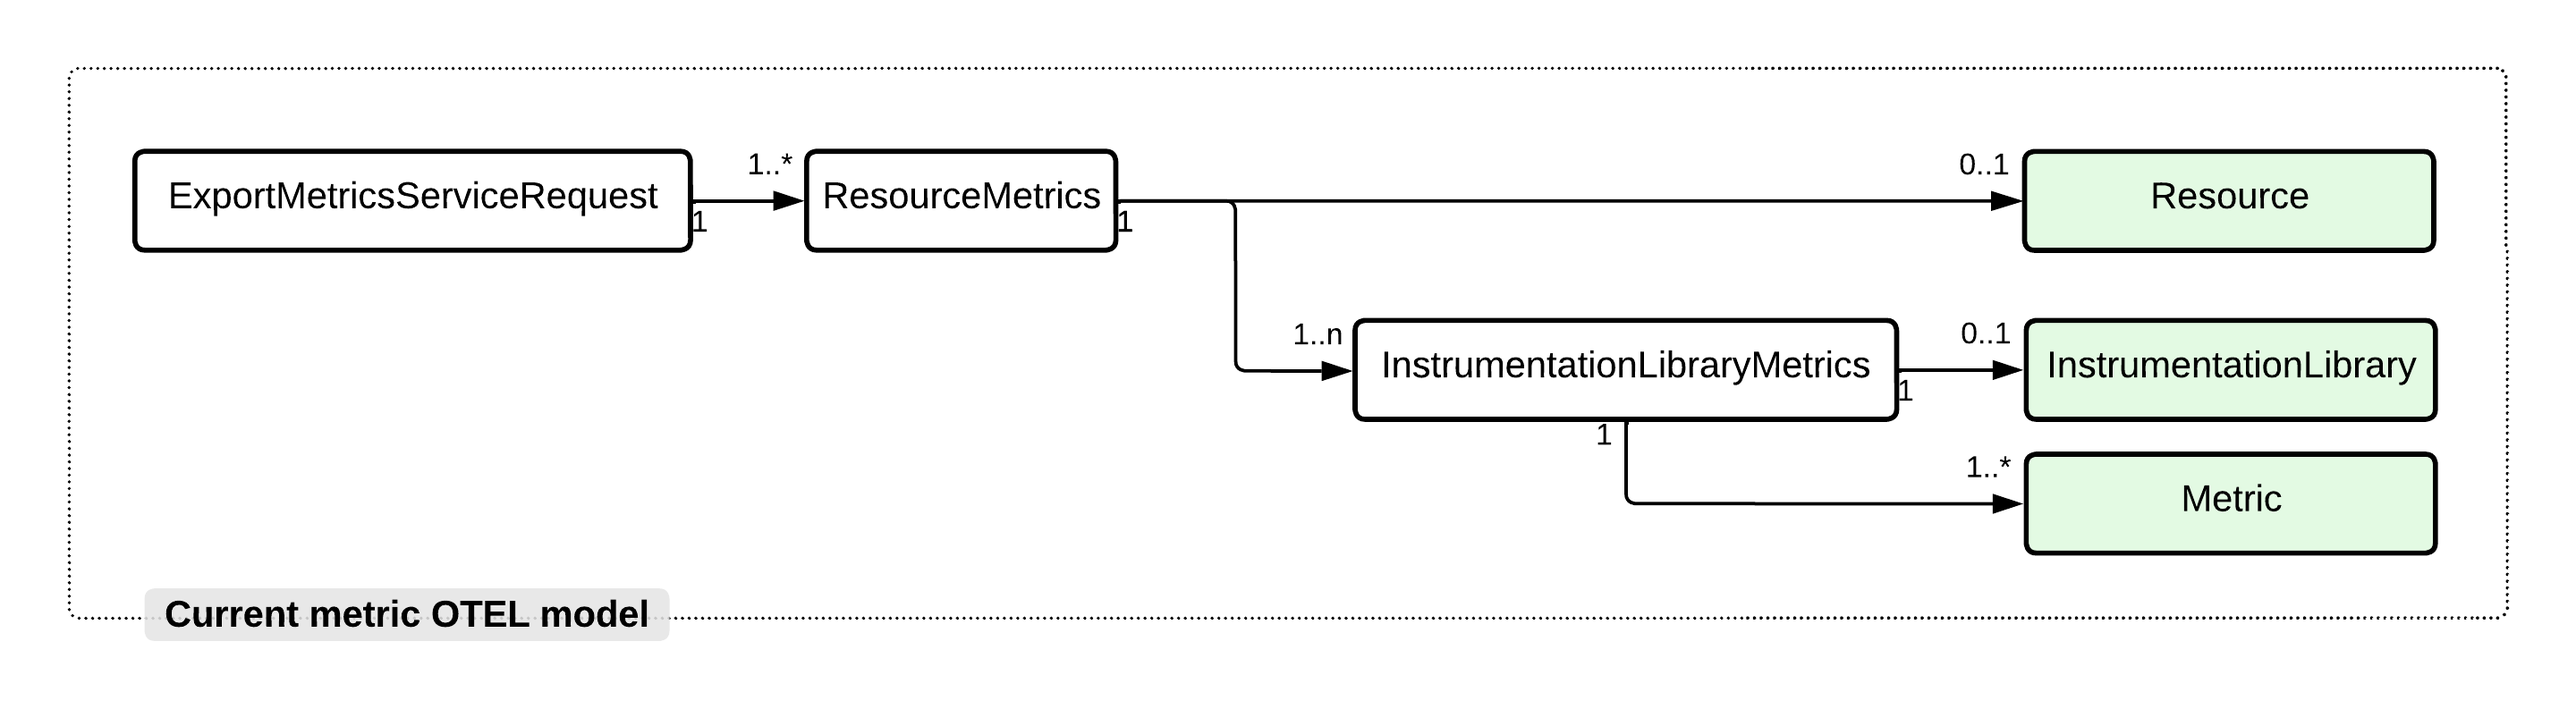
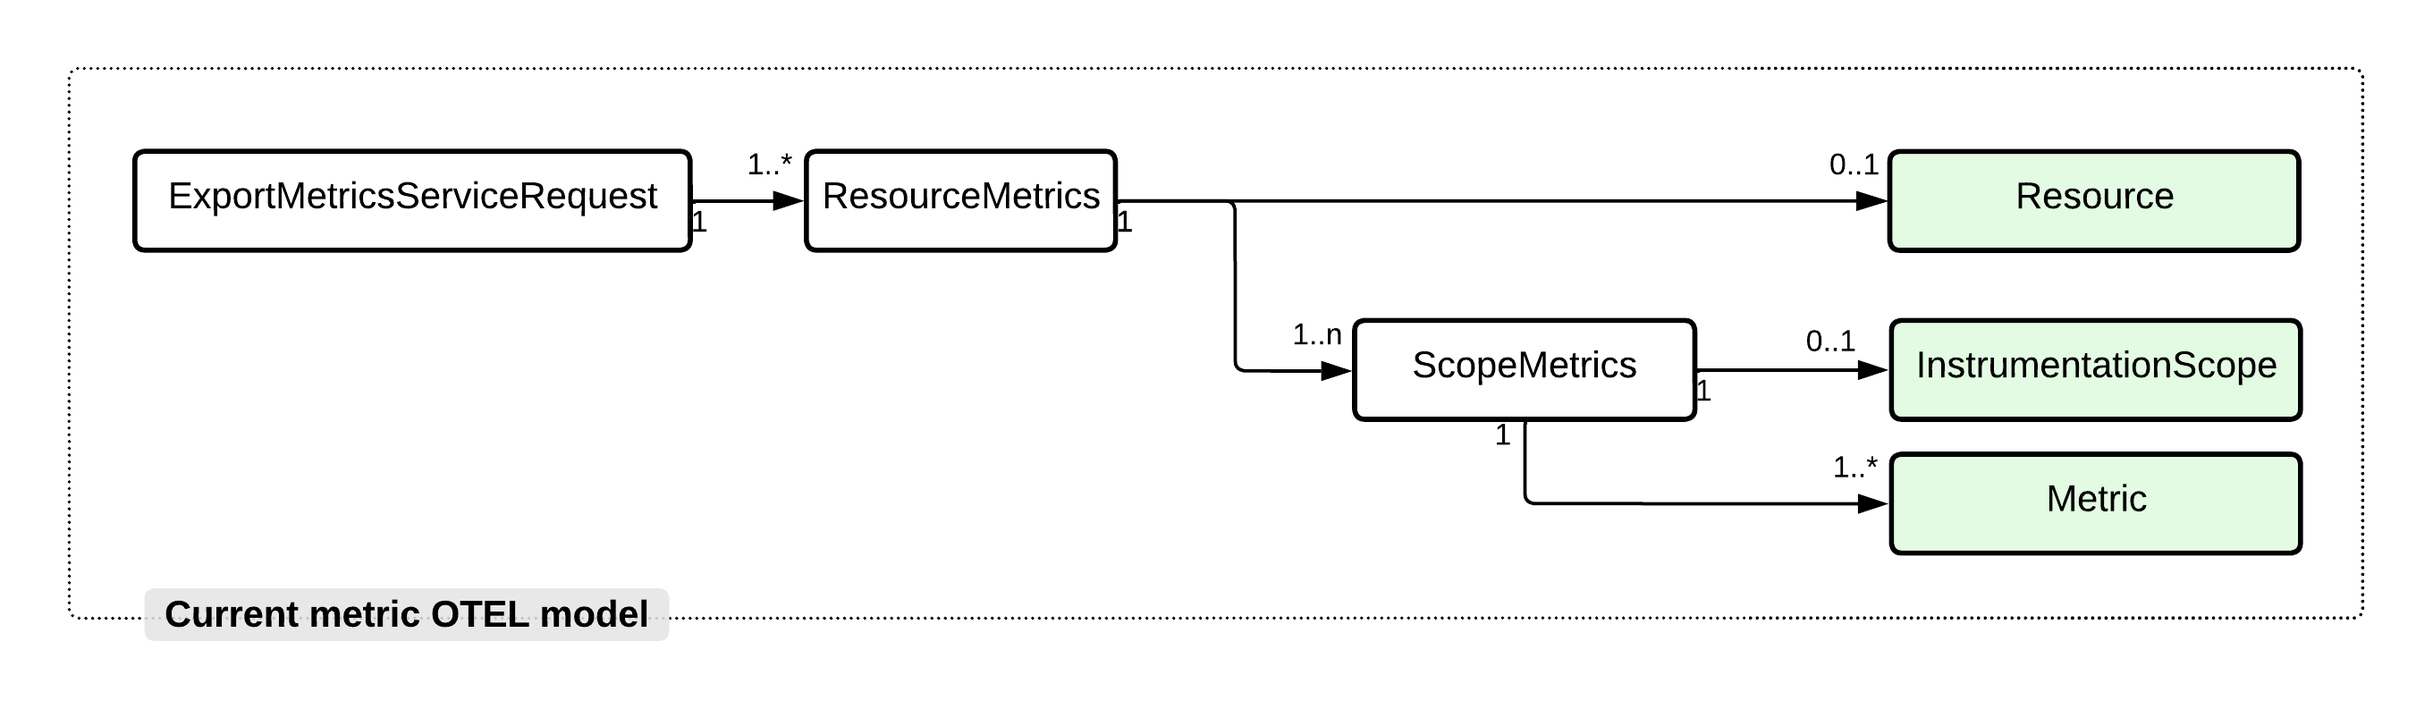
Update attribute representation section.

diff --git a/text/0156-columnar-encoding.md b/text/0156-columnar-encoding.md
@@ -20,7 +20,7 @@ provides a better representation for [multivariate time-series](#multivariate-ti
 * [Protocol Details](#protocol-details)
   * [EventStream Service](#eventstream-service)
   * [Mapping OTEL Entities to Arrow Records](#mapping-otel-entities-to-arrow-records)
-    * [Label/Attribute Representation](#labelattribute-representation)
+    * [Attribute Representation](#attribute-representation)
     * [Metrics Payload](#metrics-payload)
     * [Logs Payload](#logs-payload)
     * [Spans Payload](#spans-payload)
@@ -418,8 +418,7 @@ via `error_message`.
 
 ### Mapping OTEL Entities to Arrow Records
 
-Schema-compatible OTEL entities are batched into Apache Arrow RecordBatch. By schema-compatible, we mean a group of
-OTEL entities that all share the same exact field set (i.e. name, type, and metadata). An Apache Arrow RecordBatch is
+OTEL entities are batched into Apache Arrow RecordBatch. An Apache Arrow RecordBatch is
 a combination of three things: a schema, a collection of structured data encoded in a columnar format, and a set of
 optional dictionaries. A dictionary is an efficient way to encode string (or binary) columns that have low cardinality.
 When used in the context of the Arrow IPC format, once the schema and dictionaries have been defined they can be omitted
@@ -430,10 +429,7 @@ An Apache Arrow schema can define columns of different [types](https://arrow.apa
 and with or without nullability property. For more details on the Arrow Memory Layout see this
 [document](https://arrow.apache.org/docs/format/Columnar.html).
 
-All OTEL entities sharing the same set of columns are represented by a single Apache Arrow schema in order
-to reduce the data sparsity per batch. The tuples (column name, column type, column metadata) are sorted
-lexicographically
-and then combined to form a unique schema id used to identify schema-compatible OTEL entities.
+A specific and well-defined Arrow Schema is used for each OTEL entity type (metrics, logs, traces).
 
 The current metric model can be summarized by this UML diagram:
 
@@ -441,22 +437,18 @@ The current metric model can be summarized by this UML diagram:
 
 The leaf nodes (in green in this diagram) are where the data are actually defined as list of attributes and metrics.
 Basically the relationship between the metric and resource nodes is a many-to-one relationship. Similarly, the
-relationship between the metric and instrumentation library nodes is also a many-to-one relationship.
+relationship between the metric and instrumentation scope nodes is also a many-to-one relationship.
 
 Several approaches have been explored to transform this row-oriented representation into a column-oriented
 representation (see the section [Design optimization](#appendix-c---parameter-tuning-and-design-optimization)).
-The selected approach consists in flattening these three groups of fields (resource, instrumentation library and
-metrics) into a single entity.
-Although this representation does not seem optimal, it is in fact very efficient for a columnar representation in
-conjunction
-with dictionaries and a suitable compression algorithm (see the [benchmark](#appendix-b---performance-benchmarks)
-section
-for more information on this part). The following diagram illustrates this transformation for the metrics.
+The selected approach is to use nested lists of structures to represent the general hierarchy and to use sparse unions
+to represent the highly dynamic attributes of the different levels. As the [benchmarks](#appendix-b---performance-benchmarks)
+show, this representation offers a good compromise between speed and compression ratio.
 
-![RecordBatch internal](img/0156_RecordBatch.png)
-
-As the [benchmarks](#appendix-b---performance-benchmarks) show, this representation offers a good compromise between
-speed and compression ratio.
+Note: Historically this specification used a representation that flattened these three groups of fields (i.e. resource,
+instrumentation scope, and metrics) into a single entity. Although efficient when compressed, this representation had
+the drawback, on real production data, of significantly duplicating the first levels of the hierarchy implying a higher
+CPU and memory consumption during the batch construction phase.
 
 More specifically for the metrics, it is possible to perform an additional transformation to significantly increase the
 compression
@@ -466,8 +458,7 @@ nevertheless more common than one might think. The CPU and Memory system metrics
 time-series.
 
 `system.memory.usage` is currently separated into several univariate time-series, the attribute `state` is used to
-qualify
-each metric.
+qualify each metric.
 
 * state = used
 * state = free
@@ -477,11 +468,14 @@ each metric.
 For each of these states, the metrics share the same attributes, timestamp, ... Taken individually, these metrics don't
 make much sense. Knowing the free memory without knowing the used memory or the total memory is not very informative.
 
-OTLP Arrow proposes to support multivariate time-series natively in order to eliminate these duplications. This
-transformation can be done automatically with a configuration defining the column(s) similar to the state column in the
-previous example.
-
-To take full advantage of this columnar representation, OTLP Arrow sorts a subset of the text or binary columns to
+OTLP Arrow proposes to support multivariate time series in two different ways depending on the context of use:
+* For standard OTLP streams containing univariate metrics that follow a model equivalent to that used by `system.memory.usage`,
+an automatic deduplication of data point attributes is performed. These shared data point attributes are moved to the 
+definition of the metric itself.
+* For native Arrow OTLP streams issued by client SDKs supporting multivariant metrics declaration, a more optimal native
+representation is used.
+ 
+To take full advantage of this columnar representation, OTLP Arrow can optionally sort a subset of the text or binary columns to
 optimize the locality of identical data, thus increasing the compression ratio. More details on this aspect in the
 [Parameter tuning and Design optimization section](#appendix-c---parameter-tuning-and-design-optimization).
 
@@ -500,31 +494,34 @@ attribute-to-column mapping because the concept of attribute is common to all pa
 to `OtlpArrowPayload` has been designed to be reversible in order to be able to implement an OTLP Arrow -> OTLP
 receiver.
 
-#### Label/Attribute Representation
+#### Attribute Representation
 
-Labels are really just a key-value pair of strings. So their mapping to Arrow columns is therefore simple. Every label
-is mapped to an `utf-8` column with name `[label.key]`. These columns are grouped in a `labels` column of type struct.
+Most attributes are simply key-value pairs with values having a primitive data type (i.e. int64, double, bool, string,
+bytes). The representation of these attributes is done using a map (arrow data type) having for key a string (i.e. the
+name of the attribute), and for value a sparse union of all the possible primitive data types. To support more complex 
+cases (supposedly rare), a specific variant is added to the sparse union. This variant named `cbor` contains a binary
+representation of complex attribute values in the form of a cbor encoding. This choice of representation defines a single
+Arrow schema that is known in advance and independent of the OTLP stream. This trade-off implements a simple and efficient
+mapping for the vast majority of cases and switches to CBOR encoding for more complex minority cases.
 
-Attributes are more complex to represent. Similar to labels, attribute columns are grouped in an `attributes` column of
-type struct. However, OTLP attribute types can be much more complex than a simple string. Therefore, the column type
-depends on the type of the `AnyValue` described in Protobuf. In most cases, the translation is simple and follow the table below:
+A more structured approach has been studied and implemented based on Arrow lists, maps and structs. Although slightly
+more efficient in terms of compression rate, this approach requires a much higher level of complexity. The number of
+Arrow schemas to be dynamically generated depends directly on the telemetry flows. It has been observed that on real
+production data, the number of different schemas to be maintained can be in the order of several hundred due to the
+high variability of the nature of the attributes within the OTLP entities.
 
-| OTEL data type | Arrow data type |
-|----------------|-----------------|
-| `int64`        | `int64`         |
-| `double`       | `float64`       |
-| `bool`         | `bool`          |
-| `string`       | `utf8`          |
-| `bytes`        | `binary`        |
-
-However, `ArrayValue` and `KeyValueList` are more complex `AnyValue` to represent because they are used to represent a
-more complex hierarchy of objects. Two options were **considered** and **tested**:
-
-* `ArrayValue` is translated to an `Arrow List`, and `KeyValueList` is translated to an `Arrow Struct` making the final
-  representation highly structured.
-* `ArrayValue` and `KeyValueList` are serialized to a normalized JSON string and then stored as a `utf8` column.
-
-The first option was chosen because it gives the best results (see section [Design optimization](#appendix-c---parameter-tuning-and-design-optimization).
+```yaml
+# Attributes Arrow Schema (declaration used in other schemas)
+attributes: &attributes                                 # arrow type = map
+  - key: string | string_dictionary
+    value:                                              # arrow type = sparse union
+        str: string | string_dictionary 
+        i64: int64
+        f64: float64
+        bool: bool 
+        binary: binary | binary_dictionary
+        cbor: binary | binary_dictionary                # cbor encoded complex attribute values
+```
 
 #### Metrics Payload
 
